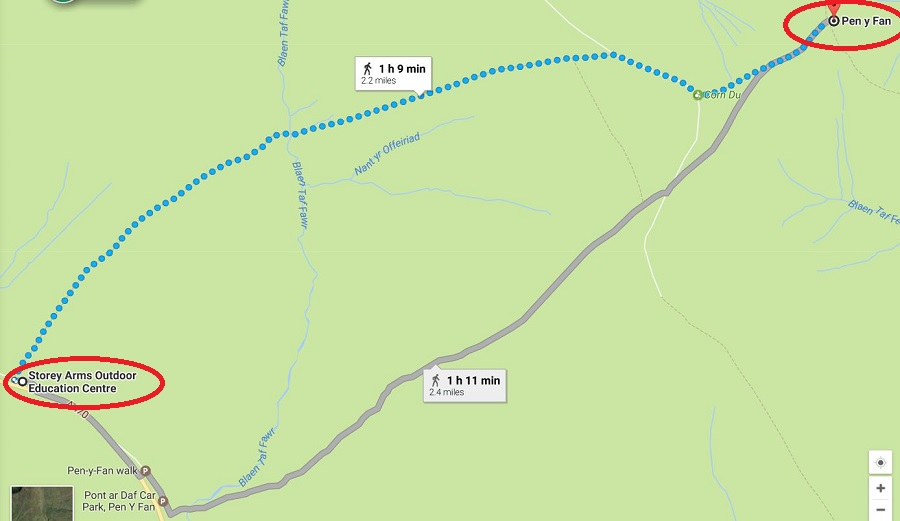
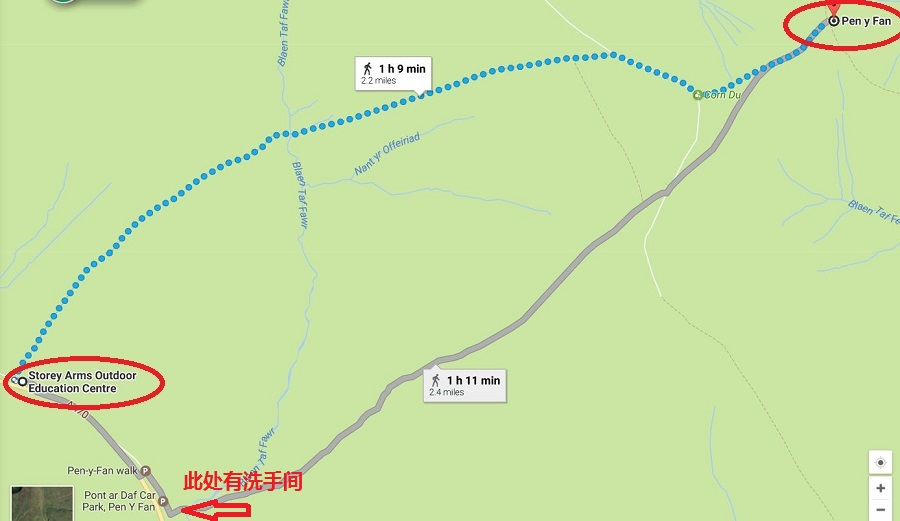
modify_new_post

Changed region(s): [[0.1867, 0.8906, 0.3422, 1.0]]

diff --git a/_posts/2017-5-8-Brecon-Beacons.md b/_posts/2017-5-8-Brecon-Beacons.md
@@ -11,11 +11,11 @@ tags:
 header-img: img/post-05-bg.jpg
 ---
 
-来英国已近3年，但一直在英格兰附近转悠。北边的威尔士，苏格兰以及北爱尔兰一直没能好好探索一番。我很喜欢大自然，越空旷、远离城市，越鲜为人知越好，所以国家公园是我探索的重点。这段时间终于下定决心，先去较近的威尔士。主要目的地是**Brecon Beacons国家公园**。
+来英国已近3年，但一直在英格兰附近转悠。北边的威尔士，苏格兰以及北爱尔兰一直没能好好探索一番。我很喜欢大自然，越空旷、远离城市，越鲜为人知越好，所以国家公园是我探索的重点。这段时间终于下定决心，先去较近的威尔士。主要目的地是**Brecon Beacons国家公园**。如果你也喜欢徒步旅行，那么这条路线你可以考虑一下。
 
 **地理位置**: 威尔士南部； **面积**：519平方英里；**成立时间**：1957
 
-**风景**： 广袤的旷野、草木繁盛的谷地、瀑布、峡谷，其中包括海拔886米的威尔士南部最高峰Pen y Fan（威尔士语）。下面是一段宣传视频，美到Cry，背景音乐非常酷。（视频来源：<a href="https://www.youtube.com/channel/UCiOo-SEMiGu9qvzjeL11XjA" target="_blank"> BreconBeaconsNPA</a>）
+**风景**： 广袤的旷野、草木繁盛的谷地、瀑布、峡谷，其中包括海拔886米的威尔士南部最高峰Pen y Fan（威尔士语）。下面是一段宣传视频，美到Cry，背景音乐非常酷，尤其是夜晚的繁星。（视频来源：<a href="https://www.youtube.com/channel/UCiOo-SEMiGu9qvzjeL11XjA" target="_blank"> BreconBeaconsNPA</a>）
 
 <div class="container">
   <div class="row">
@@ -33,18 +33,32 @@ header-img: img/post-05-bg.jpg
 ------
 **怎么去**
 
-我居住的地方在英格兰西南部的海滨小镇（Bournemouth），不想错过沿途美丽的风景，所以选择了坐火车。起点Bournemouth station到终点Cardiff central（卡迪夫），中途在Southampton（南安普顿）转一次车，总共花了3个半小时。沿途经过很多小镇，包括巴斯、布里斯托，还有一些自然保护区。坐火车虽然时间久了一点，但却值得。
+我居住的地方在英格兰西南部的海滨小镇Bournemouth（伯恩茅斯），不想错过沿途美丽的风景，所以选择了坐火车。起点Bournemouth station（伯恩茅斯）到终点Cardiff central（卡迪夫），中途在Southampton（南安普顿）转一次车，总共花了3个半小时。沿途经过很多小镇，包括巴斯、布里斯托，还有一些自然保护区。坐火车虽然时间久了一点，但却值得。
+<img src="/img/in-post/tr_map5.jpg" >
 
 到了卡迪夫火车站后步行几分钟到一个公交站台Philharmonic (Stop JP)，如下图：
 
 <img src="/img/in-post/tr_map1.jpg" >
 
-坐T4，大概1小时20分钟到```Storey Arms``` 这一站下，就可以开始徒步旅行了。<a href="https://www.traveline.cymru/timetables/?routeNum=T4&direction_id=1&timetable_key=0T4MFSCA2" target="_blank">这里附上T4公交的时刻表</a>。需要注意的是，节假日与平时的时刻会不一样，如果选择了公共交通而不是自驾，还是要多check公交时刻表。**```且不是所有的T4都会到Storey Arms这一站```**。所以上车前向司机确认一下这班车到不到Storey Arms。不要看到T4就激动了。我们就先上了一辆并不到Storey Arms的T4，司机很友好，告诉我下一班T4才会去。后来的一班T4确实会到Storey Arms，上车时我说买两张单程票，司机是一位老爷爷，他很惊讶，单程的？你们不回来了吗？我说我们回的，但并不是今天回来（我以为公交的往返票仅限当天使用）。他说你在一个月之内回来就可以买往返票啦，还会便宜一些。我们买了往返车票，两人一共18.6磅。出发前司机又特地跑来叮嘱一下我们，这往返车票在一个月内都是有效的哦。真是一位热心的司机。到了人生地不熟的地方遇到些好心人真是感动的泪流满面~~
+坐T4，大概1小时20分钟到```Storey Arms``` 这一站下，就可以开始徒步旅行了。<a href="https://www.traveline.cymru/timetables/?routeNum=T4&direction_id=1&timetable_key=0T4MFSCA2" target="_blank">这里附上T4公交的时刻表</a>。需要注意的是，T4一般上午一小时一班，下午就是2小时一班了。节假日与平时的时刻还会不一样，如果选择了公共交通而不是自驾，还是要多check公交时刻表，。**```且不是所有的T4都会到Storey Arms这一站```**。所以上车前向司机确认一下这班车到不到Storey Arms。不要看到T4就激动了。我们就先上了一辆并不到Storey Arms的T4，司机很友好，告诉我下一班T4才会去。
+<img src="/img/in-post/tr_map7.jpg" >
 
-到了Storey Arms，周围很空旷，没有任何住家，有的只是高速路上疾驰的车辆。
+后来的一班T4确实到Storey Arms这里站，上车时我说买两张单程票，司机是一位老爷爷，他很惊讶，单程的？你们不回来了吗？我说我们回的，但并不是今天回来（我以为公交的往返票仅限当天使用）。他说你在一个月之内回来就可以买往返票啦，还会便宜一些。我们买了往返车票，两人一共18.6磅。出发前司机又特地跑来叮嘱一下我们，这往返车票在一个月内都是有效的哦。真是一位热心的司机。到了人生地不熟的地方遇到些好心人真是感动的泪流满面~~。所以如果你的行程不会超过一个月，还是买往返票吧。
+
+当然你也可以坐T4或者火车先到Merthyr Tydfil这个小镇，它就在公园脚下，再从Merthyr Tydfil坐T4去Storey Arms。这样你还可以逛逛Merthyr Tydfil。
+<img src="/img/in-post/tr_map6.jpg" >
+
+到了Storey Arms，正对着你的方向会有一座标志性的白色的建筑，那就是地图上显示的Storey Arms Outdoor Education Centre，对面是一个小停车场。周围很空旷，没有其他任何住家，有的只是高速路上疾驰的车辆，大家注意安全啊。
+
+如图所示，有两条徒步路线可以到达最高峰**Pen y Fan**，两条路线的起点分别在白色建筑的左右两边，你可以选择任何一条作为上山的徒步路线，选择另一条下山，因为这样两边的风光都不会错过。当然也可以选择原路返回。我们选择了左边的路线上（因为公交下的地方离左边的起点近呀），右边的路线下。其实右边的路线才是徒步的主线。
 <img src="/img/in-post/tr_img2.jpg">
-如下图所示，有两条徒步路线可以到达最高峰**Pen y Fan**，你可以选择任何一条作为上山的徒步路线，选择另一条作为下山的，因为这样两边的风光都不会错过。当然也可以选择原路返回。我们选择了左边的路线上，右边的路线下。Google 地图上显示徒步一小时就可以到达最高峰，其实我们走了2个多小时才到达。
+<img src="/img/in-post/tr_map8.jpg">
 <img src="/img/in-post/tr_map2.jpg">
+
+在即将到达Pen y Fan之前，你会经过一个分叉口，如果这时你还有精力可以选择沿着途中白线所示的路线徒步去观光一下小池塘，来回大概1小时，之后再继续向Pen y Fan前进。
+<img src="/img/in-post/tr_map9.jpg">
+<img src="/img/in-post/tr_img44.jpg">
+**```提醒```**： 关于洗手间，在户外徒步，这应该是一个很值得关心的问题。Storey Arms Outdoor Education Centre，就是那个白色建筑中的洗手间是不对外开放的，徒步过程中也没有任何洗手间，但是不用担心，右边路线的起点会有一个洗手间的。但是如果你在徒步过程中......，那就只有找个没人的地方自行解决喽。
 
 **风景如何**
 
@@ -57,7 +71,7 @@ header-img: img/post-05-bg.jpg
 一回头，原来已经走了很远<img src="/img/in-post/tr_img10.jpg">
 如此开阔的视野，多呆上几天，视力应该会好不少<img src="/img/in-post/tr_img3.jpg"><img src="/img/in-post/tr_img5.jpg"><img src="/img/in-post/tr_img6.jpg">
 
-走了很久，也经过很陡的路段，一直以为正对着的是最终目的地，途中遇到一位攀登者告诉我，那不是最高峰，最高峰是右边那个。WTF!!!我一直以为是目标，而且深信不疑得朝着它前进，现在告诉我，目标是错的，那只是第二高峰。不过还好，两峰只间隔了15分钟路程，我那惊吓的小心脏缓了许多。
+走了很久，也经过很陡的路段，一直以为正对着的是最终目的地，途中遇到一位攀登者告诉我，那不是最高峰，最高峰是右边那个。WTF!!!我一直以为是目标，而且深信不疑得朝着它前进，现在告诉我，目标是错的，那只是第二高峰。不过还好，两峰只间隔了15分钟路程，我那惊吓的小心脏缓了许多。所以大家也要注意哦。
 <img src="/img/in-post/tr_img4.jpg">
 <img src="/img/in-post/tr_img40.jpg">
 
@@ -76,26 +90,42 @@ header-img: img/post-05-bg.jpg
 
 在山上吃了午餐，自带三明治，已经不早了，还得赶公交T4，所以下山了，下山选择了另一条路线，走了一个半小时才到达山脚。脚疼啊，脚趾还被磨破了，幸好带了创口贴，要不然脚该废了。所以建议大家，不要小看海拔低的山峰，攀爬之前水，食物，简单的急救品还是该备齐的，以防万一。沿途看到了不少老爷爷老奶奶，拄着登山杖，慢慢攀爬，也看到了穿着短袖短裤的健壮大哥，一路小跑很快就不见人影了。想想能走走真好，前几天好友说她奶奶住院了，想出去溜达都有心无力了。所以不禁感叹，年轻何尝不是一种资本。
 
+关于专业户外徒步需要准备哪些装备，大家可以参考下<a href="http://www.aiyinsitan123.com/tool.html" target="_blank">户外徒步装备</a>
+
 **住哪里**
 
-因为晚上想看星星，又不敢露营野外，所以提前订好了一家山中酒店。爬完山下来就可以坐T4到达，还是T4，因为这一路上只有这一班公交。但想着走到酒店也不算远，还能欣赏沿途美丽的风景，寻找峡谷，瀑布什么的。于是决定徒步去酒店。酒店的位置在Llwyn-on Village 这一站。从图上看，在Storey Arms 走到这一站也不需要花太久，经过三个湖泊就到了。在来的路上也看到了这三个湖，应该不会走丢的。于是天真的上路了，原以为可以穿梭在小山坡间，但现实是只有一条路可以走，那就是高速公路。于是我们就沿着高速公路开始了心惊胆战的徒步。走了大概一个半小时，沿途没有任何村落，站台。到了Nant Ddu ，已经精疲力尽。主要是心累，担心一不小心就被疾驰的车辆给带走。于是我们决定不继续徒步，等T4吧，Nant Ddu 这里有一个站台，下一站就是酒店所在地。等了一小时，终于坐上了末班车，到了Llwyn-on Village 。
-<img src="/img/in-post/tr_map3.jpg">
+在野外住哪里又是一个问题，在这里你有很多选项，**露营**、**青旅**、**酒店**、**B&B**，根据自己的喜好选择吧，<a href="http://www.breconbeacons.org/stay" target="_blank">这是Brecon Beacons官网提供的住宿详情</a>。
 
-住的地方让我们很满意，宁静，与世隔绝，除了鸟叫就是溪流水声，周围的环境也美得很。这家酒店叫llwyn onn guest house。是一家四星级酒店，但价格很公道，还包早餐，在tripadvisor上评价很高。之前是一个农场，后来被买下来成了酒店，有一部分是主人自家住的，其中有11个房间是用来对外开放的。所以住在这里很有家的味道。
+**```提醒```**：山中的酒店check-in时间都很晚，一般都下午5点左右开始，不要去太早，太早也无法入住。
+
+下面是自己的住宿地方的体验，供大家参考。
+
+晚上想看星星，又不敢露营野外。所以在expedia提前订好了一家山中酒店，<a href="https://www.expedia.co.uk/?semcid=expe.UK.001.001.02.01&kword=expedia!e.ZzZz.3390000196638.0.19410685821.expedia.expedia&k_user_id=_kenshoo_clickid_&gclid=CjsKDwjw0cXIBRCxjqnE3K3sHhIkAL1LezStfRJ24FYdX1lMIf6Sw_TUfW4HmRdtNdZpQNtLncC-GgIZC_D_BwE" target="_blank">英文官网</a>, <a href="https://www.expedia.cn/" target="_blank">中文官网</a>。这家酒店叫 llwyn onn guest house。是一家四星级酒店，70磅/晚，还包早餐，在tripadvisor上评价不错。
+
+下山坐T4就可到达，酒店的位置在Llwyn-on Village 这一站，从图上看，在Storey Arms 走到这一站也不需要花太久，经过三个湖泊就到了。在来的路上也看到了这三个湖，应该不会走丢，沿途还能欣赏美丽的风景，寻找峡谷，瀑布什么的。于是天真的上路了，原以为可以穿梭在小山坡间，但现实是只有一条路可以走，那就是高速公路。于是我们就沿着高速公路开始了心惊胆战的徒步，沿途没有任何村落，站台。所以大家千万不要走我的老路，建议大家下山后直接等T4吧。
+
+**```提醒```**： 这一路上只有T4这一班公交。
+
+<img src="/img/in-post/tr_map3.jpg">
+走了大概一个半小时到了Nant Ddu ，已经精疲力尽。主要是心累，担心一不小心就被疾驰的车辆给带走。于是我们决定不继续徒步，等T4吧，Nant Ddu 这里有一个站台，下一站就是酒店所在地。等了一小时，终于坐上了末班车，分分钟到了Llwyn-on Village，已经是下午4点50了，正好可以入住。另外，Nant Ddu这一站也有一家酒店，评价也很好，但预定的时候已经sold out了。也许因为地理位置更靠近Storey Arms ，所以价格贵一点，要100磅左右。
+
+住的地方挺满意，宁静，与世隔绝，除了鸟叫就是溪流水声，周围的环境也美得很。这里之前是一个农场，后来被买下来成了酒店，有一部分是主人自家住的，其中有11个房间是用来对外开放的。所以住在这里很有家的味道。
 <img src="/img/in-post/tr_img17.jpg">
 当天就只有我们入住，因为我们避开了easter holiday。有种承包了酒店的感觉。
+
+**```提醒```**：在预定的时候显示只有1间空房了，所以大家在订酒店时不要被还剩几间客房吓到，有水分的。
 <img src="/img/in-post/tr_img18.jpg">
 <img src="/img/in-post/tr_img28.jpg">
 这是餐厅
 <img src="/img/in-post/tr_img22.jpg">
 
-周围的环境很美，因为酒店本身就坐落在湖边上，来欣赏下这里的湖光山色吧。
+周围的环境很美，因为酒店本身就坐落在湖边上，你可以绕湖徒步一圈，来欣赏下这里的湖光山色吧。
 <img src="/img/in-post/tr_img16.jpg">
 <img src="/img/in-post/tr_img19.jpg">
 <img src="/img/in-post/tr_img20.jpg">
 <img src="/img/in-post/tr_img29.jpg">
 <img src="/img/in-post/tr_img21.jpg">
-因为是阴天，所以没能体验到宣传视频中的繁星，算是一点小遗憾。
+因为是阴天，所以晚上没能体验到宣传视频中的繁星，算是一点小遗憾。
 
 值得一提的是酒店提供的早餐，纯家庭手工制作威尔士传统早餐。用餐时间是早上7：30 - 9:00。我们又承包了餐厅。一位老奶奶友好的问我们想吃什么，鸡蛋，培根，香肠，或者都要。我们选择了都要，哈哈。我想补充的是在英格兰也是这么吃的，一模一样，但却叫英格兰传统早餐，估计同样的食物在苏格兰也自居是自己的传统早餐，在北爱尔兰也如是。
 <img src="/img/in-post/tr_img25.jpg">
@@ -105,13 +135,15 @@ header-img: img/post-05-bg.jpg
 除了这些以外，还有自助的果汁，酸奶，饼干，水果等，是不是很丰盛，这一顿在外面吃也至少需要7-8磅/人。所以这家酒店的性价比很高，给五星好评<i style="color:#0085A1" class="fa fa-smile-o" aria-hidden="true"></i>。
 <img src="/img/in-post/tr_img23.jpg">
 
-结束Brecon Beacons国家公园之行，返回卡迪夫。
+结束Brecon Beacons国家公园之行，坐T4返回卡迪夫。
 
 **```友情提醒```**：
-这些国家公园适合自驾旅行，但如果没有车，也可以选择公共交通，但一定提前查好路线，公交具体时刻，最好连公交站台的位置都提前在地图上搜索确定一下。因为荒郊野外的，公交两小时才一班。错过末班车就意味着一：要露宿荒野，二：走断腿找到一户人家。不过另一种意义上这也许就是徒步旅行的挑战乐趣吧。
+坦白说这些国家公园适合自驾旅行，但如果没有车，也可以选择公共交通，但一定提前查好路线，公交具体时刻，最好连公交站台的位置都提前在地图上搜索确定一下。因为荒郊野外的，公交两小时才一班。错过末班车就意味着一：要露宿荒野，二：走断腿找到一户人家。不过另一种意义上这也许就是徒步旅行的挑战乐趣吧。
 
 这是荒郊野外的公交站台，我们也是找了好久，也问了当地居民，才知道原来这是一个公-交-站-台。
 <img src="/img/in-post/tr_img38.jpg">
+
+祝大家徒步愉快~~
 
 
 
